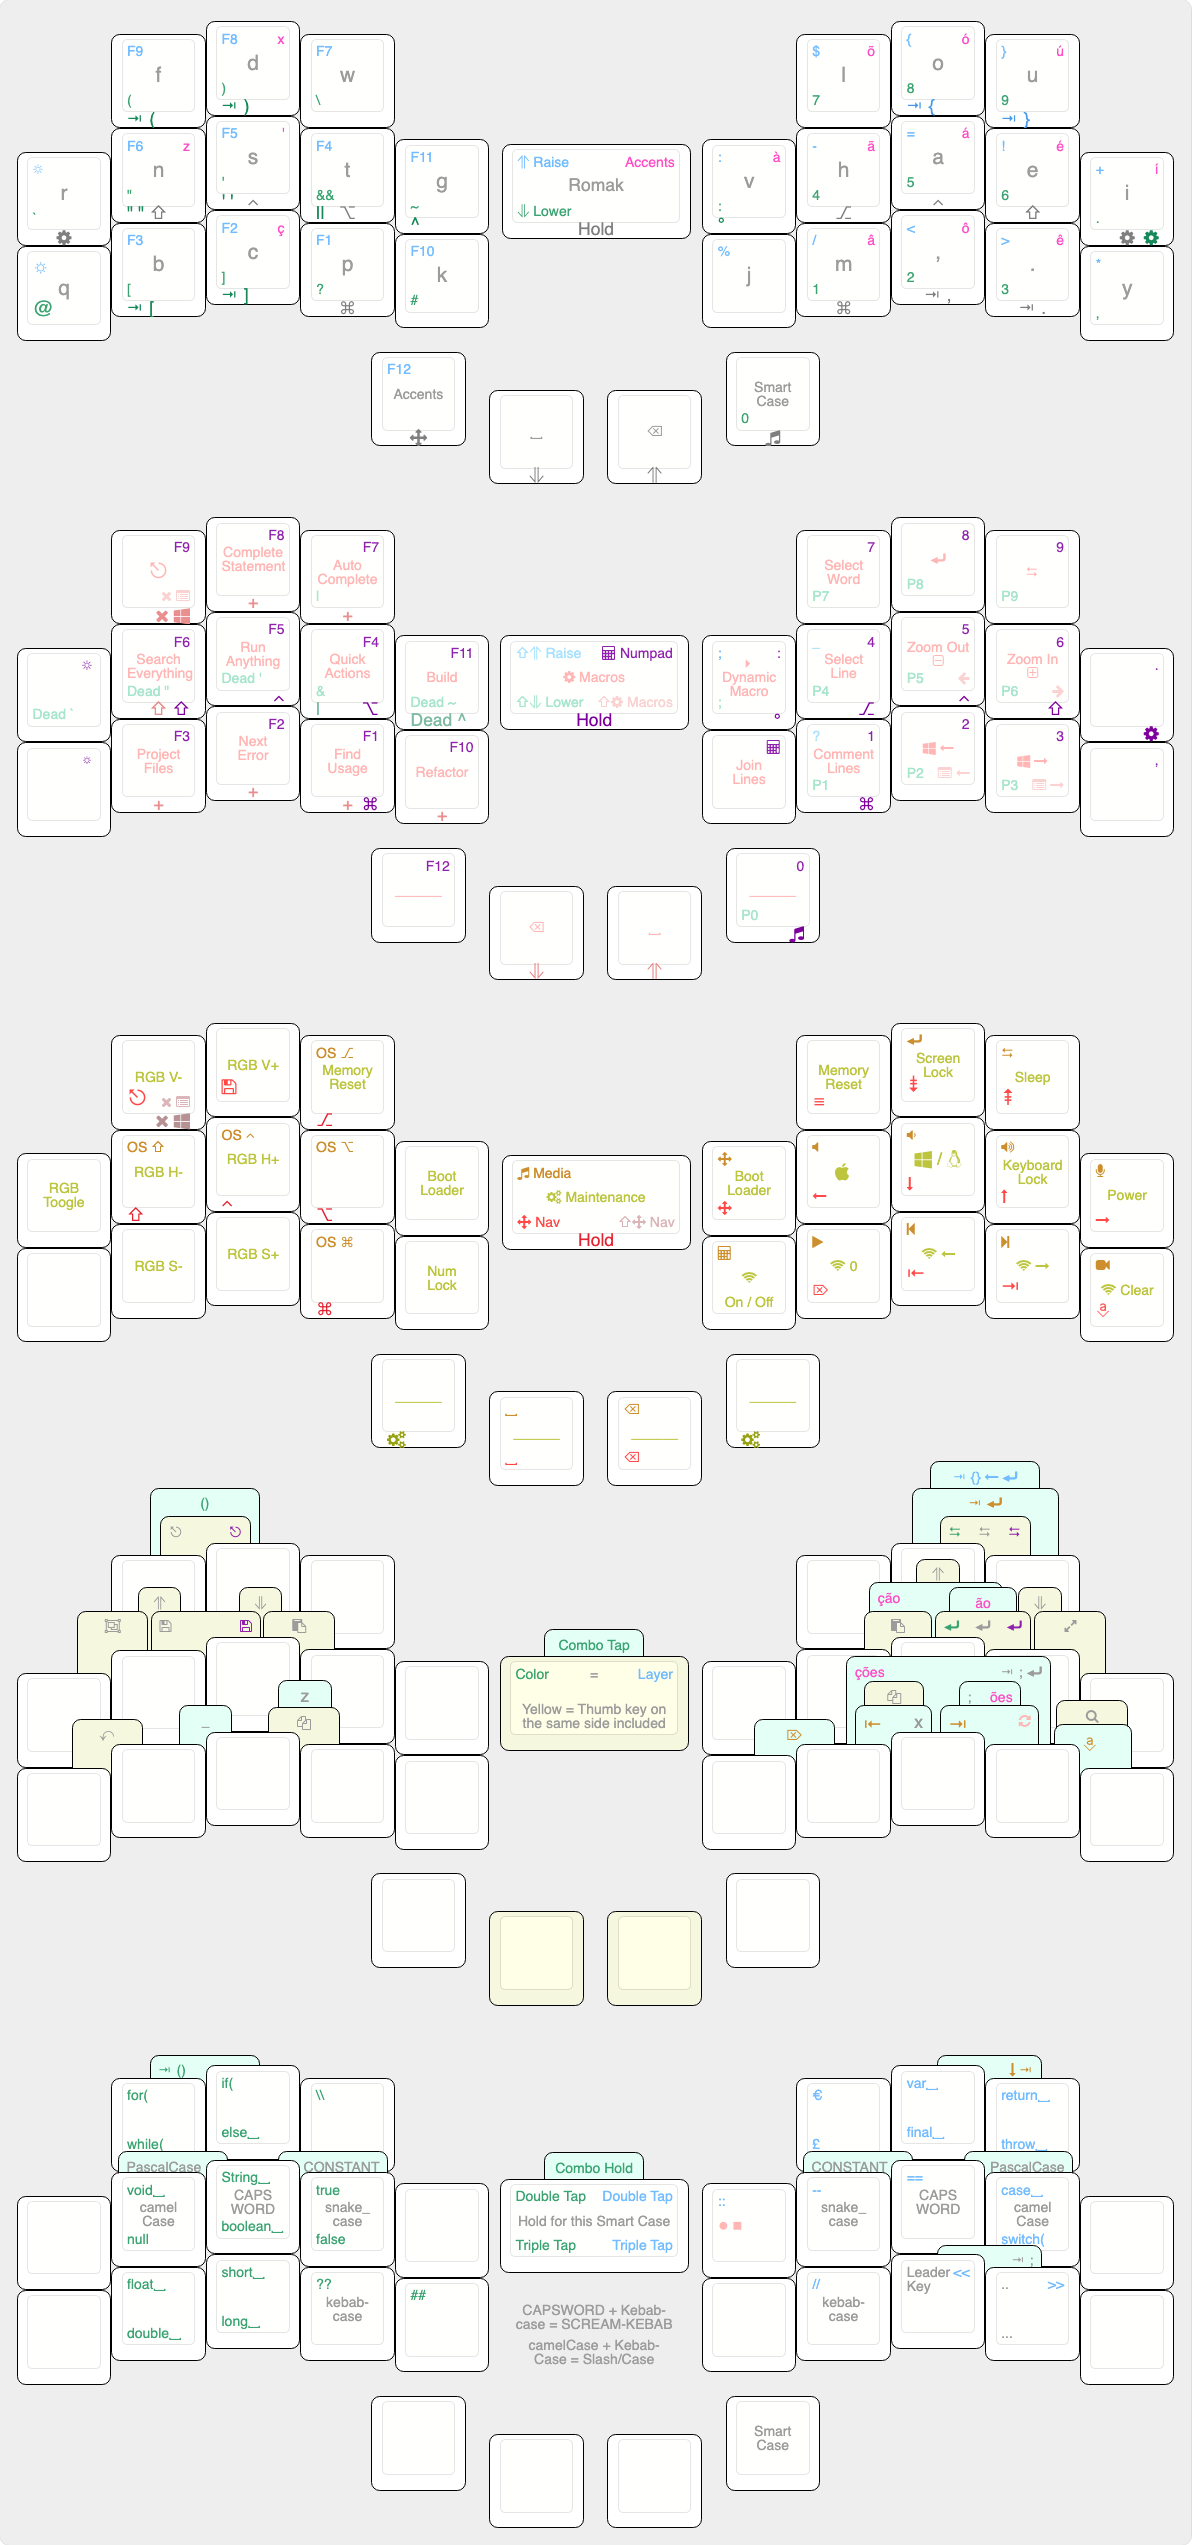
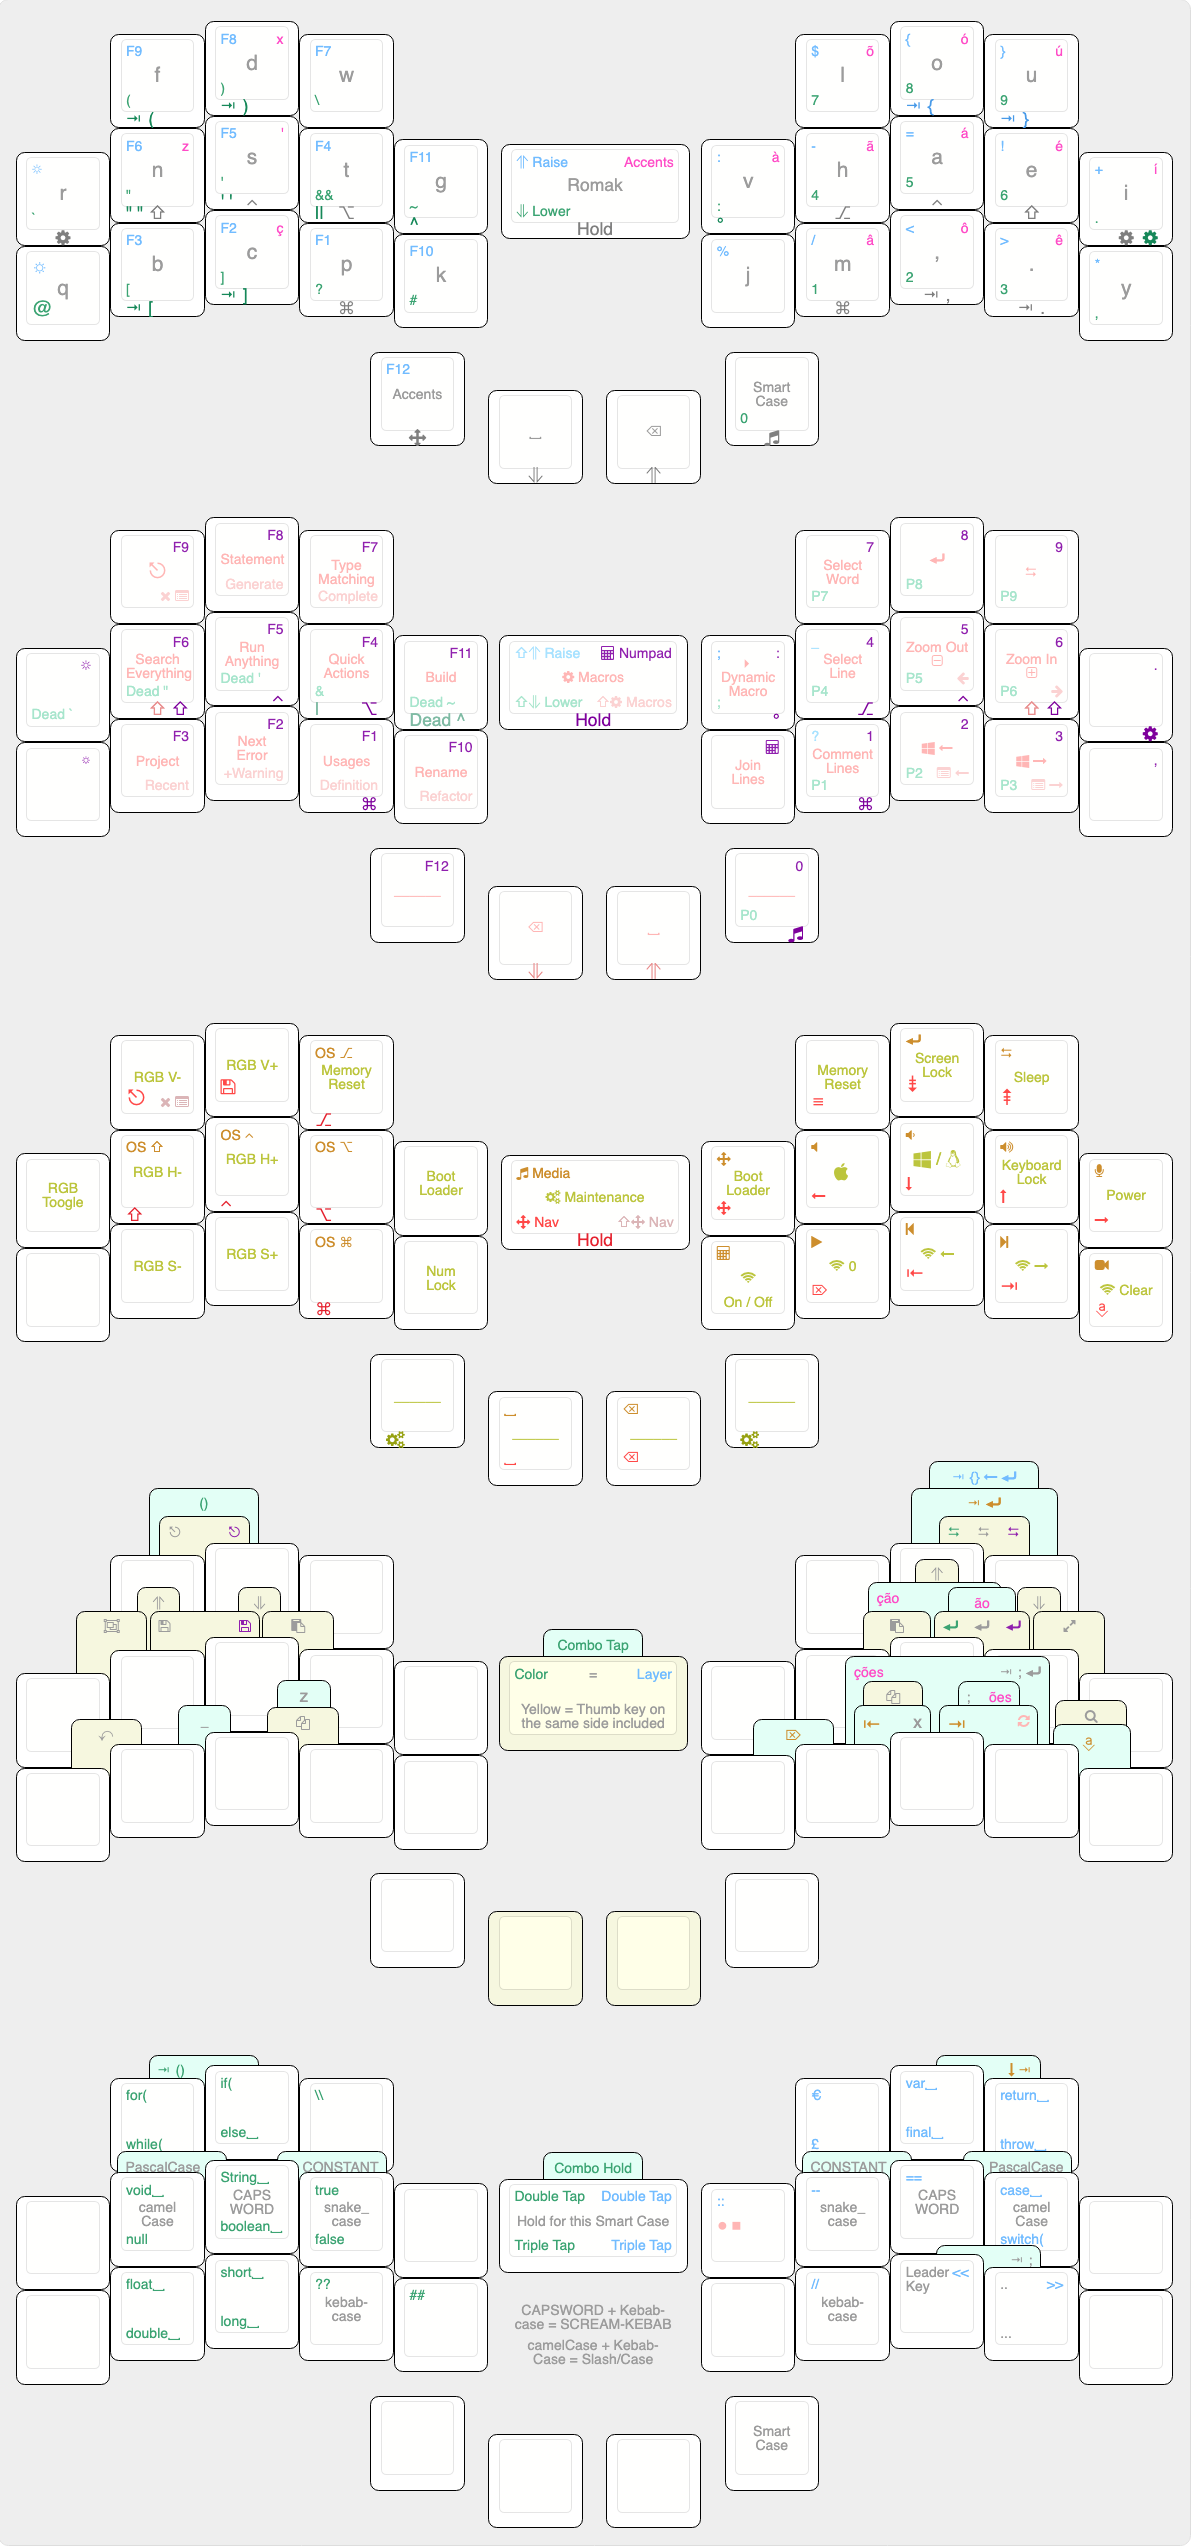
remove longpress

diff --git a/src/qmk/users/rafaelromao/features/macros.c b/src/qmk/users/rafaelromao/features/macros.c
@@ -126,7 +126,8 @@ process_record_result_t process_macro_keycode(uint16_t keycode, bool isOneShotSh
             // Rename / Refactor
 
         case MC_REFC:
-            if (is_long_press()) {
+            if (isShifted) {
+                clear_shift();
                 if (isMacOS) {
                     SEND_STRING(SS_LCTL(SS_TAP(X_T)));
                 } else {
@@ -146,7 +147,8 @@ process_record_result_t process_macro_keycode(uint16_t keycode, bool isOneShotSh
             // Project Files / Recent Files
 
         case MC_PROJ:
-            if (is_long_press()) {
+            if (isShifted) {
+                clear_shift();
                 if (isMacOS) {
                     SEND_STRING(SS_LGUI(SS_TAP(X_E)));
                 } else {
@@ -189,7 +191,8 @@ process_record_result_t process_macro_keycode(uint16_t keycode, bool isOneShotSh
             // Complete Statement / Generete Code
 
         case MC_COMP:
-            if (is_long_press()) {
+            if (isShifted) {
+                clear_shift();
                 if (isMacOS) {
                     SEND_STRING(SS_LGUI(SS_TAP(X_N)));
                 } else {
@@ -207,7 +210,8 @@ process_record_result_t process_macro_keycode(uint16_t keycode, bool isOneShotSh
             // Type-matching Auto Complete / Basic Auto Complete
 
         case MC_AUCO:
-            if (is_long_press()) {
+            if (isShifted) {
+                clear_shift();
                 SEND_STRING(SS_LCTL(" "));
             } else {
                 SEND_STRING(SS_LCTL(SS_LSFT(" ")));
@@ -217,7 +221,8 @@ process_record_result_t process_macro_keycode(uint16_t keycode, bool isOneShotSh
             // Next Error / Next Warning
 
         case MC_NEER:
-            if (is_long_press()) {
+            if (isShifted) {
+                clear_shift();
                 SEND_STRING(SS_TAP(X_F2));
             } else {
                 SEND_STRING(SS_LSFT(SS_TAP(X_F2)));
@@ -227,7 +232,8 @@ process_record_result_t process_macro_keycode(uint16_t keycode, bool isOneShotSh
             // Find Usages / Go To Definition
 
         case MC_FIUS:
-            if (is_long_press()) {
+            if (isShifted) {
+                clear_shift();
                 if (isMacOS) {
                     SEND_STRING(SS_LSFT(SS_LGUI(SS_TAP(X_B))));
                 } else {
@@ -272,7 +278,8 @@ process_record_result_t process_macro_keycode(uint16_t keycode, bool isOneShotSh
             // Refresh / Clear Cache
 
         case MC_REF:
-            if (is_long_press()) {
+            if (isShifted) {
+                clear_shift();
                 if (isMacOS) {
                     SEND_STRING(SS_LGUI(SS_LSFT(SS_TAP(X_R))));
                 } else {
@@ -292,23 +299,15 @@ process_record_result_t process_macro_keycode(uint16_t keycode, bool isOneShotSh
         case MC_ESC:
             if (isShifted) {
                 clear_shift();
-                if (is_long_press()) {
-                    if (isMacOS) {
-                        SEND_STRING(SS_LGUI(SS_TAP(X_Q)));
-                    } else {
-                        SEND_STRING(SS_LALT(SS_TAP(X_F4)));
-                        break;
-                    }
+                if (isMacOS) {
+                    SEND_STRING(SS_LGUI(SS_TAP(X_W)));
                 } else {
-                    if (isMacOS) {
-                        SEND_STRING(SS_LGUI(SS_TAP(X_W)));
-                    } else {
-                        SEND_STRING(SS_LCTL(SS_TAP(X_F4)));
-                        break;
-                    }
+                    SEND_STRING(SS_LCTL(SS_TAP(X_F4)));
+                    break;
                 }
+            } else {
+                tap_code(KC_ESC);
             }
-            tap_code(KC_ESC);
             return PROCESS_RECORD_RETURN_FALSE;
 
         case MC_ESAV:
@@ -321,10 +320,6 @@ process_record_result_t process_macro_keycode(uint16_t keycode, bool isOneShotSh
 }
 
 process_record_result_t process_macros(uint16_t keycode, keyrecord_t *record) {
-    if (start_long_press(record)) {
-        return PROCESS_RECORD_CONTINUE;
-    }
-
     bool isOneShotLockedShift = get_oneshot_locked_mods() & MOD_MASK_SHIFT;
     bool isOneShotShift       = isOneShotLockedShift || get_oneshot_mods() & MOD_MASK_SHIFT;
     bool isShifted            = isOneShotShift || get_mods() & MOD_MASK_SHIFT;

diff --git a/src/qmk/users/rafaelromao/definitions/keymap_blocks.h b/src/qmk/users/rafaelromao/definitions/keymap_blocks.h
@@ -41,7 +41,7 @@
 #define ____MACROS_L4____                                                             _______ , LOW_BSP
 
 #define ___________________MACROS_R1___________________ XXXXXXX , MC_SELW , KC_ENT  , KC_TAB  , XXXXXXX
-#define ___________________MACROS_R2___________________ TD_MACR , MC_SELL , MC_MODM , MC_MODP , XXXXXXX
+#define ___________________MACROS_R2___________________ TD_MACR , MC_SELL , MC_MODM , SF_ZP   , XXXXXXX
 #define ___________________MACROS_R3___________________ MC_JOIN , MC_COMT , MC_SWLE , MC_SWRI , XXXXXXX
 #define ____MACROS_R4____                               RAI_SPC , _______
 

diff --git a/src/qmk/users/rafaelromao/features/taphold.c b/src/qmk/users/rafaelromao/features/taphold.c
@@ -41,6 +41,12 @@ process_record_result_t process_taphold(uint16_t keycode, keyrecord_t *record) {
                 return PROCESS_RECORD_RETURN_FALSE;
             }
             break;
+        case SF_ZP:
+            if (!record->event.pressed && record->tap.count > 0) {
+                process_macros(MC_MODP, NULL);
+                return PROCESS_RECORD_RETURN_FALSE;
+            }
+            break;
     }
     return PROCESS_RECORD_CONTINUE;
 }

diff --git a/src/qmk/users/rafaelromao/definitions/keycodes.h b/src/qmk/users/rafaelromao/definitions/keycodes.h
@@ -96,6 +96,7 @@ enum {
 #define LSFTT_N LSFT_T(KC_N)
 #define RSFTT_E RSFT_T(KC_E)
 #define SF_SE LSFT_T(MC_SEEV)
+#define SF_ZP LSFT_T(MC_MODP)
 #define SF_F6 LSFT_T(KC_F6)
 #define SF_6 RSFT_T(KC_6)
 
@@ -157,7 +158,5 @@ enum {
 
 uint16_t extract_base_tapping_keycode(uint16_t keycode);
 bool is_key_on_tap(uint16_t keycode);
-bool start_long_press(keyrecord_t *record);
-bool is_long_press(void);
 
 // clang-format on

diff --git a/src/qmk/users/rafaelromao/definitions/keycodes.c b/src/qmk/users/rafaelromao/definitions/keycodes.c
@@ -27,17 +27,3 @@ bool is_key_on_tap(uint16_t keycode) {
     }
     return false;
 }
-
-static uint16_t pressed_time = 0;
-
-bool start_long_press(keyrecord_t *record) {
-    if (record != NULL && record->event.pressed) {
-        pressed_time = timer_read();
-        return true;
-    }
-    return false;
-}
-
-bool is_long_press(void) {
-    return timer_elapsed(pressed_time) > TAPPING_TERM;
-}
